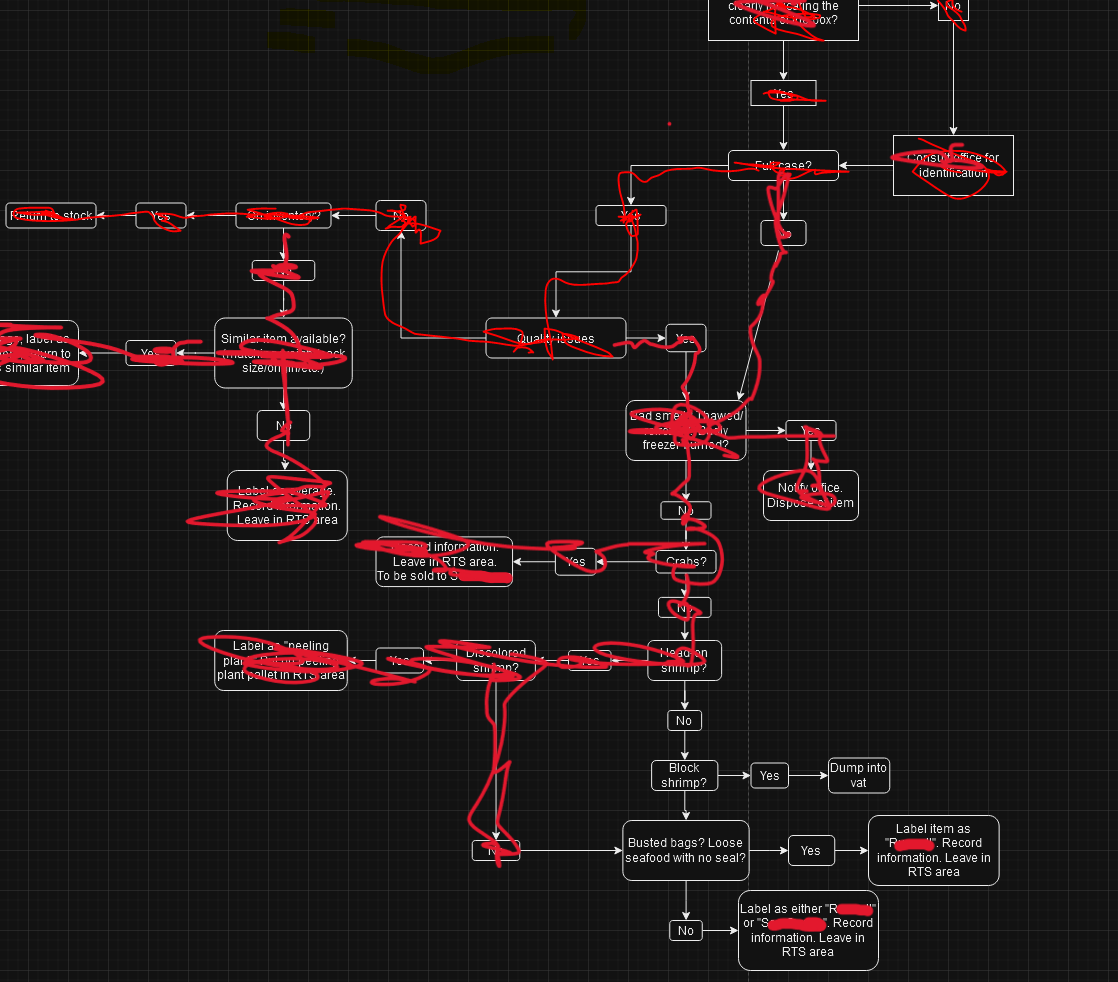
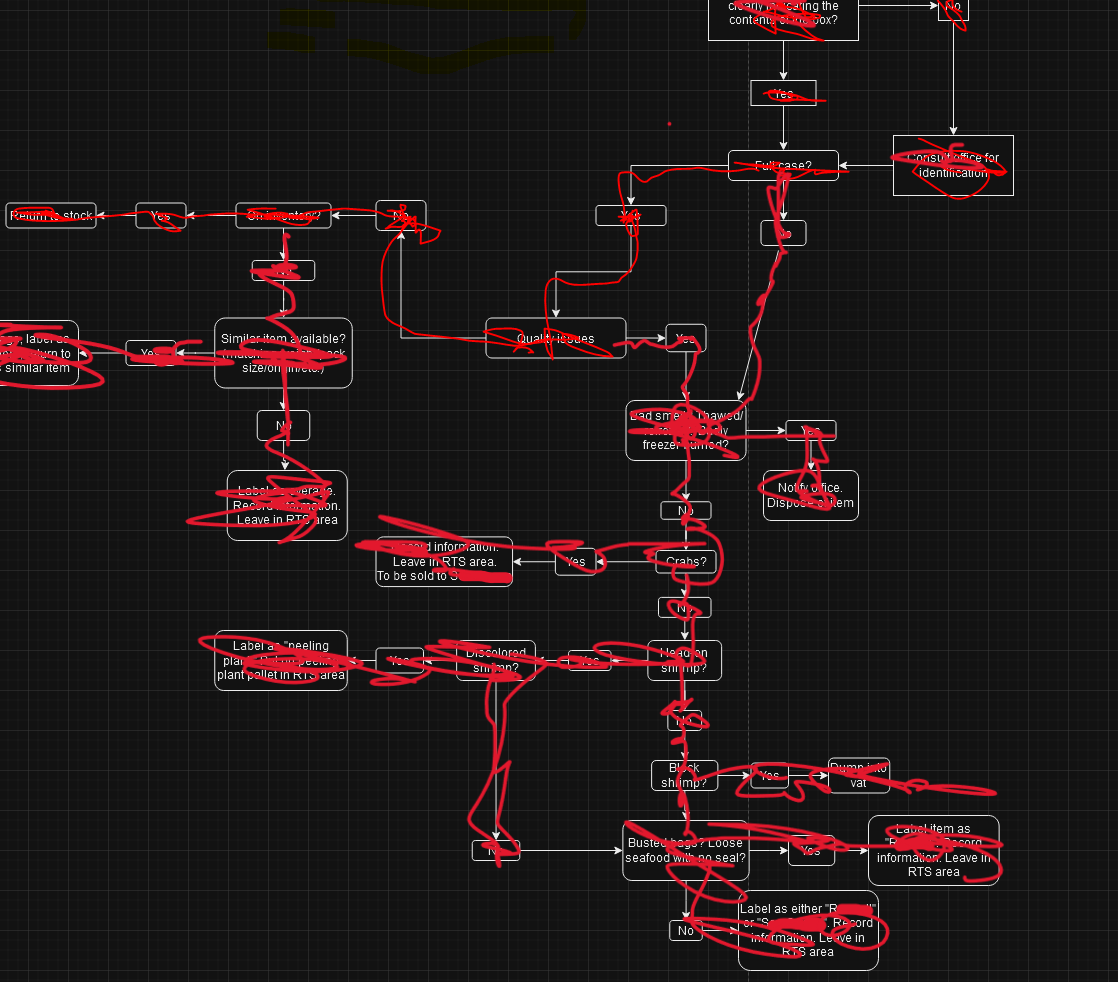
completed guidance function

Changed region(s): [[0.5778, 0.7026, 0.9123, 0.9776], [0.5474, 0.8248, 0.5778, 0.8554]]

diff --git a/RTS Sorting Assistant.py b/RTS Sorting Assistant.py
@@ -5,6 +5,7 @@ import datetime
 import os
 
 
+
 ### FUNCTIONS ###
 
 # open file and read file, return blank dictionary on failure
@@ -58,90 +59,105 @@ def clear_screen(persisting_display_message = ""):
     if len(persisting_display_message) > 0:
         print(persisting_display_message, "\n")
         
-# ITEM SORTING GUIDANCE FUNCTIONS 
 def item_sorting_guidance():
-    clear_screen("(ITEM SORTING GUIDANCE)")
-    input('''Item Sorting Guidance is a series of yes or no questions, designed to help you make a decision on what should be done with an item. Enter "Y" if your answer is yes, or "N" for no.
-Press "Enter" to begin...''')
-    clear_screen("(ITEM SORTING GUIDANCE)")
-
-    # is the item identifiable?
-    # NO
-    if check_item_identification() is False:
-        clear_screen("(ITEM SORTING GUIDANCE)")
-        print('ITEM IDENTIFICATION')
-        input('''Let's start by identifying the item. Please bring the case, or a sample from the case into the office for identification. Press "Enter" once the item has been identified.''')
-        
-    # missing weight or quality issues?
-    # YES
-    clear_screen("(ITEM SORTING GUIDANCE)")
-    if check_full_case() is False or check_quality_issue() is True:
-
-        # should the item be disposed?
-        # YES
-        clear_screen("(ITEM SORTING GUIDANCE)")
-        if check_disposal() is True:
+    try:
+        while True:
             clear_screen("(ITEM SORTING GUIDANCE)")
-            result_disposal()
-        # NO 
-        else:
-            
-            # is the item a type of crustacean?
+            input('''Item Sorting Guidance is a series of yes or no questions, designed to help you make a decision on what should be done with an item. Enter "Y" if your answer is yes, or "N" for no.
+Press "Enter" to begin...''')
+            clear_screen("(ITEM SORTING GUIDANCE)")
+            # is the item identifiable?
+            # NO
+            if check_item_identification() is False:
+                clear_screen("(ITEM SORTING GUIDANCE)")
+                print('ITEM IDENTIFICATION')
+                input('''Let's start by identifying the item. Please bring the case, or a sample from the case into the office for identification. Press "Enter" once the item has been identified.''')               
+            # missing weight or quality issues?
             # YES
             clear_screen("(ITEM SORTING GUIDANCE)")
-            if check_crustacean() is True:
-                clear_screen("(ITEM SORTING GUIDANCE)")
-                result_crustacean()
-            
-            # NO
-            else:
-
-            # is the item crab meat cup(s)?
+            if check_full_case() is False or check_quality_issue() is True:
+                # should the item be disposed?
                 # YES
                 clear_screen("(ITEM SORTING GUIDANCE)")
-                if check_crab_meat_cups() is True:
+                if check_disposal() is True:
                     clear_screen("(ITEM SORTING GUIDANCE)")
-                    result_crab_meat_cups()
+                    result_disposal()
+                # NO 
+                else:                    
+                    # is the item a type of crustacean?
+                    # YES
+                    clear_screen("(ITEM SORTING GUIDANCE)")
+                    if check_crustacean() is True:
+                        clear_screen("(ITEM SORTING GUIDANCE)")
+                        result_crustacean()                   
+                    # NO
+                    else:
+                    # is the item crab meat cup(s)?
+                        # YES
+                        clear_screen("(ITEM SORTING GUIDANCE)")
+                        if check_crab_meat_cups() is True:
+                            clear_screen("(ITEM SORTING GUIDANCE)")
+                            result_crab_meat_cups()
+                        # NO
+                        else:
+                            # is the item head-on shrimp?
+                            clear_screen("(ITEM SORTING GUIDANCE)")
+                            # YES
+                            if check_head_on_shrimp() is True:
+                                clear_screen("(ITEM SORTING GUIDANCE)")
+                                result_head_on_shrimp()
+                            # NO 
+                            else:
+                                # is the item block-frozen shrimp?
+                                clear_screen("(ITEM SORTING GUIDANCE)")
+                                if check_block_shrimp() is True:
+                                    clear_screen("(ITEM SORTING GUIDANCE)")
+                                    result_block_shrimp()
+                                # NO
+                                else:                               
+                                # is the item Type B?
+                                    # YES
+                                    clear_screen("(ITEM SORTING GUIDANCE)")
+                                    if check_type_b() is True:
+                                        clear_screen("(ITEM SORTING GUIDANCE)")
+                                        result_type_b()
+                                    # NO
+                                    else:
+                                        clear_screen("(ITEM SORTING GUIDANCE)")
+                                        result_type_a()                
+            # NO 
+            else:
+                # on inventory?
+                # YES
+                clear_screen("(ITEM SORTING GUIDANCE)") 
+                if check_on_inventory() is True:
+                    clear_screen("(ITEM SORTING GUIDANCE)")
+                    result_return_to_stock()
                 # NO
                 else:
-
-                    # is the item head-on shrimp?
+                    # similar item available?
+                    # YES
                     clear_screen("(ITEM SORTING GUIDANCE)")
-                    if check_head_on_shrimp() is True:
+                    if check_similar_item() is True:
                         clear_screen("(ITEM SORTING GUIDANCE)")
-                        result_head_on_shrimp()
+                        result_identical_item_return_to_stock()    
+                    # NO
+                    else:
+                        clear_screen("(ITEM SORTING GUIDANCE)")
+                        result_overage()
 
-        
-    # NO 
-    else:
-
-        # on inventory?
-        # YES
-        clear_screen("(ITEM SORTING GUIDANCE)") 
-        if check_on_inventory() is True:
-            clear_screen("(ITEM SORTING GUIDANCE)")
-            result_return_to_stock()
-        # NO
-        else:
-
-            # similar item available?
-            # YES
-            clear_screen("(ITEM SORTING GUIDANCE)")
-            if check_similar_item() is True:
-                clear_screen("(ITEM SORTING GUIDANCE)")
-                result_identical_item_return_to_stock()    
-            # NO
-            else:
-                clear_screen("(ITEM SORTING GUIDANCE)")
-                result_overage()              
+    except main_menu:
+        clear_screen()                            
         
 def get_user_choice():
     while True:
-        user_choice = input('(Y/N)\n> ').upper().strip()
+        user_choice = input('\n(Y/N)\n(M: Return to main menu)\n\n> ').upper().strip()
         if user_choice == 'Y':
             return True
         elif user_choice == 'N':
             return False
+        elif user_choice == 'M':
+            raise main_menu
         else:
             print('Invalid input. Enter "Y" if your answer is yes, or "N" for no.')
 
@@ -273,12 +289,27 @@ Is this item head-on shrimp that has darkened in color?''')
 def check_block_shrimp(): # is it block-frozen shrimp?
     print('BLOCK SHRIMP?')
     print('''Is this item block-frozen shrimp? These items are rectangular blocks of shrimp, typically packaged in cardboard cartons.''')
+    user_choice = get_user_choice()
+    return user_choice
+
+def check_type_b(): # are the contents of the item edible, but damaged?
+    print("TYPE B ITEM?")
+    print('''Examine the item for the following qualities:
+
+- Damaged bags
+- Loose contents, such as shrimp or fish that have left its packaging and been exposed to air
+          
+Do these qualities describe the item?''')
+    user_choice = get_user_choice()
+    return user_choice
 
 def result_return_to_stock():
     print('RESULT:')
     print('''The item should be returned to stock. Print a label for the item to be scanned into a location and put the item an appropriate location. When returning items to stock,
 the item you are returning and the item at the location must be the same. If you are unable to find a pallet of the item you are returning, the item should be scanned
 into a location within the RTS area.''')
+    
+    input('\nInput "Enter" to restart Item Sorting Guidance...')
 
 def result_identical_item_return_to_stock():
     print("RESULT:")
@@ -289,24 +320,41 @@ a case of "Brand A Swai Fillets" can be repackaged, then attached with printed l
 When returning items to stock, the item you are returning and the item at the location must be the same. If you are unable to find a pallet of the item you are returning, the item should be scanned
 into a location within the RTS area.
 ''')
+    
+    input('\nPress "Enter" to restart Item Sorting Guidance...')
 
 def result_overage(): ### add prompt to record information
     print("RESULT:")
     print('''The item is an overage. An overage is a discrepancy - a difference, between the warehouse management system inventory and physical inventory. We physically have the item, but it is not accounted for in the system inventory. 
+
 Label the item as "overage" (this can be handwritten on a sticker) and put the item on an overage pallet. An overage pallet can be found on the floor within the RTS area. Once an overage pallet reaches bin height, it should be wrapped, labeled 
 as "OVERAGE" and inbounded (slotted into a bin) within the RTS area.''')
+    
+    input('\nPress "Enter" to restart Item Sorting Guidance...')
 
 def result_disposal():
     print('RESULT:')
-    print('''The item should be disposed. It is not safe to eat, and or not resellable.  If the item is not on inventory, it can be dumped into a vat (large, cube-shaped tub used to store waste), or directly into the dumpster.
+    print('''The item should be disposed. It is not safe to eat, and or not resellable.  If the item is not on inventory, it can be dumped into a waste vat (large, cube-shaped tub), or directly into the dumpster.
 If the item is on inventory, notify the office before disposal.''')
+    input('\nPress "Enter" to restart Item Sorting Guidance...')
 
 def result_crustacean(): # type C item
     print('RESULT:')
     print('''This item should be labeled "C" (this can be handwritten on a sticker) and put together on a pallet with other type "C" items. Crustacean type items are generally high value. Because these type C items are damaged, we must separate
-them from the main inventory as they cannot be sold for their original value, but can be sold to willing consumers for a percentage of their original value to regain some of the cost.
+them from the main inventory as they cannot be sold for their original value, but can be sold to willing consumers for a percentage of their original value to recover some of the cost.
+
+Ensure the following information is clearly labeled on the box (if applicable). This will only be necessary if the original label is not attached:
+- Size (4/UP, 5/8 etc.)
+- Type of food (lobster, snow crab, etc.)
+- The way the food has been processed (legs, tail, etc.)
+- Country of origin
+- Brand name
+- Total weight
+[ Example of item label: 4/UP Snow Crab Legs Canada OCI 25# ]    
 
 A type C pallet can be found on the floor of the RTS area. If there is no type C pallet on the floor, a new type C pallet can be started. Once a type C pallet reaches bin height, the pallet should be labeled "Type C", then inbounded (slotted into a bin) in the RTS area.''')
+    
+    input('\nPress "Enter" to restart Item Sorting Guidance...')
 
 def result_head_on_shrimp(): # type P item
     print('RESULT:')
@@ -314,6 +362,8 @@ def result_head_on_shrimp(): # type P item
 the main inventory. These type P pallets will be sent to a "peeling plant" to be peeled, repackaged, and returned to the warehouse in a state that is sellable.
           
 A type P pallet can be found on the floor of the RTS area. If there is no type P pallet on the floor, a new type P pallet can be started. Once a type P pallet reaches bin height, the pallet should be labeled "Type P", then inbounded (slotted into a bin) in the RTS area.''')
+    
+    input('\nPress "Enter" to restart Item Sorting Guidance...')
 
 def result_crab_meat_cups(): # type F item; result needs changed when re-cupping is possible
     print('RESULT:')
@@ -321,15 +371,72 @@ def result_crab_meat_cups(): # type F item; result needs changed when re-cupping
 will be held in the RTS area until supplies are ordered.
           
 A type F pallet can be found on the floor of the RTS area. If there is no type F pallet on the floor, a new type F pallet can be started. Once a type F pallet reaches bin height, the pallet should be labeled "Type F", then inbounded (slotted into a bin) in the RTS area.''')
+    
+    input('\nPress "Enter" to restart Item Sorting Guidance...')    
 
 def result_block_shrimp():
     print('RESULT:')
-    print('''''')
+    print('''This item and its contents should be put into a vat (large, cube-shaped tub) that contains other block shrimp cartons. Block shrimp are generally only sold by the case, and not sold by the piece (individual cartons). These block shrimp vats
+are shipped out periodically to a "peeling plant", where the shrimp are reprocessed and repackaged, then returned to the warehouse in a sellable condition.
+          
+Block shrimp vats can be found in the RTS area. If all current vats are filled, or there are no vats, place the contents of the item into an empty vat. Move this vat to the RTS area.''')
+    
+    input('\nPress "Enter" to restart Item Sorting Guidance...')
+    
+def result_type_b(): # checking for busted bags, loose food
+    print('RESULT:')
+    print('''This item should be put into a box and labeled "B" (this can be handwritten on a sticker) and put together on a pallet with other type "B" items. 
+
+Ensure the following information is clearly labeled on the box (if applicable). This will only be necessary if the original label is not attached:
+- Size (4oz, 4/6oz, 2/4LB, 16/20, etc.)
+- Type of food (shrimp, catfish, flounder, chicken, etc.)
+- The way the food has been processed (fillet, tail-on, headless, wing, etc.)
+- Color (white, neutral, pink, scarlet, crimson, etc.)
+- Country of origin
+- How the item is packaged (IQF, IVP, IWP, etc.)
+- Brand name
+- Total weight
+[ Example of item label: 31/35 Shrimp P&D Tail-off White Ecuador IQF Vanoni 7# ]          
+          
+The item is in poor condition, likely due to mishandling, and must be kept separate from the main inventory. Type B items will be sold to willing customers at a heavily discounted price, or potentially disposed of in the future.
+        
+A type B pallet can be found on the floor of the RTS area. If there is no type B pallet on the floor, a new type B pallet can be started. Once a type B pallet reaches bin height, the pallet should be labeled "Type B", then inbounded (slotted into a bin) in the RTS area.''')
+
+    input('\nPress "Enter" to restart Item Sorting Guidance...')
+
+def result_type_a(): # item is good quality
+    print('RESULT:')
+    print('''This item should be put into a box and labeled "A" (this can be handwritten on a sticker) and put together on a pallet with other type "A" items. 
+
+Ensure the following information is clearly labeled on the box (if applicable). This will only be necessary if the original label is not attached:
+- Size (4oz, 4/6oz, 2/4LB, 16/20, etc.)
+- Type of food (shrimp, catfish, flounder, chicken, etc.)
+- The way the food has been processed (fillet, tail-on, headless, wing, etc.)
+- Color (white, neutral, pink, scarlet, crimson, etc.)
+- Country of origin
+- How the item is packaged (IQF, IVP, IWP, etc.)
+- Brand name
+- Pack size (4X5LB, 1x10LB, etc.) or total weight if not applicable
+[ Example of item label: 31/35 Shrimp P&D Tail-off White Ecuador IQF Vanoni 4x2# ]
+
+The item is in acceptable condition, but cannot be sold for its full value as it is likely not a full case, and so must be kept from the main inventory. Type A items will be sold to willing customers at cost, or a slightly discounted price.
+          
+A type A pallet can be found on the floor of the RTS area. If there is no type A pallet on the floor, a new type A pallet can be started. Once a type A pallet reaches bin height, the pallet should be labeled "Type A", then inbounded (slotted into a bin) in the RTS area.''')
+    
+    input('\nPress "Enter" to restart Item Sorting Guidance...')
+
+
+
+
+
 
 ### MAIN PROGRAM ###
     
 # change working directory to specified path
 os.chdir(r"C:\Users\hoand\Desktop\RTS_Data")
+
+# used to return to main menu
+class main_menu(Exception): pass
 
 # get current date and user name
 current_time = datetime.datetime.now()
@@ -339,14 +446,18 @@ clear_screen()
 
 user_data = read_file()
 
+
 display_introduction()
 clear_screen()
 
-display_main_menu()
-user_choice = input('Enter a selection\n> ')
+while True:
+    display_main_menu()
+    user_choice = input('Enter a selection\n> ')
 
-if user_choice == '1':
-    item_sorting_guidance()
+    if user_choice == '1':
+        item_sorting_guidance()
+    elif user_choice =='4':
+        break
 
 
 
